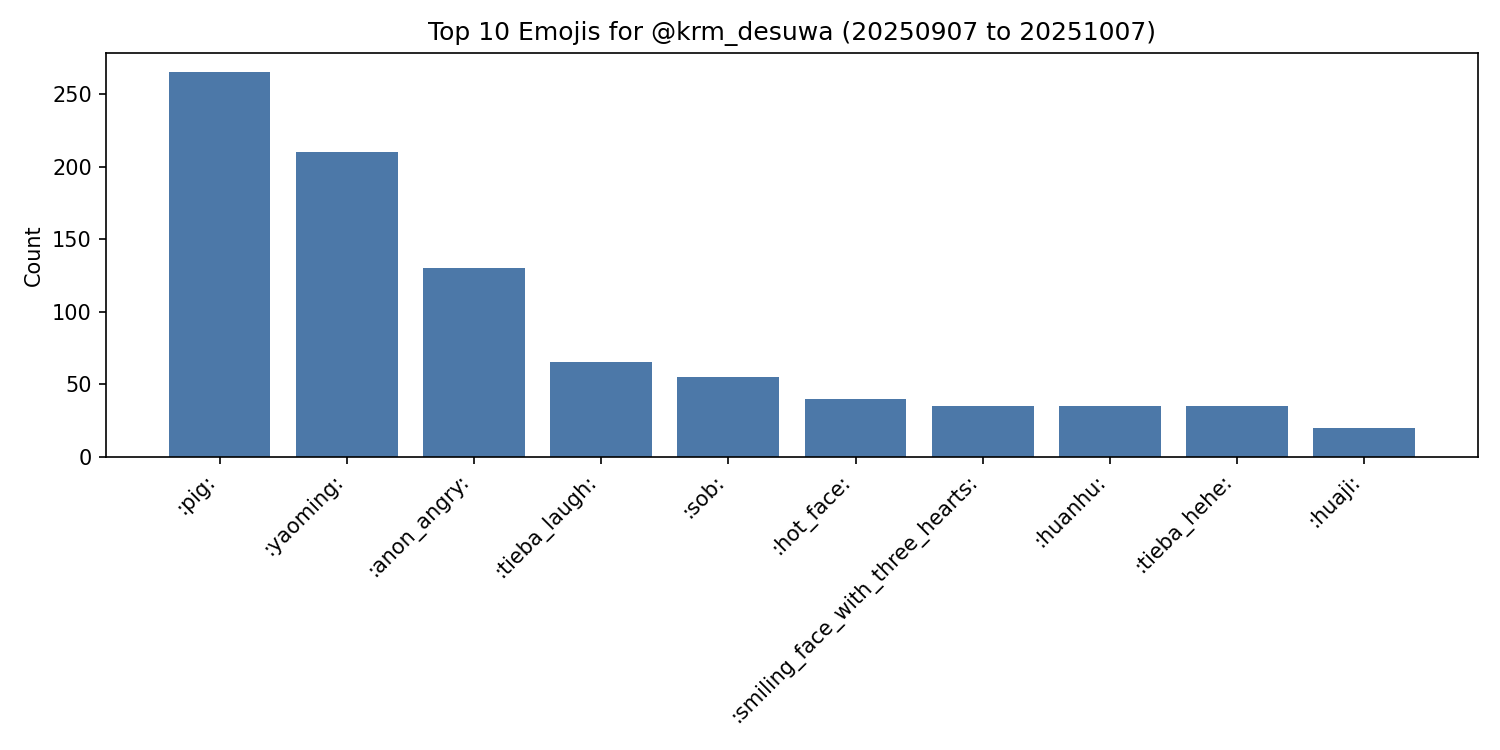
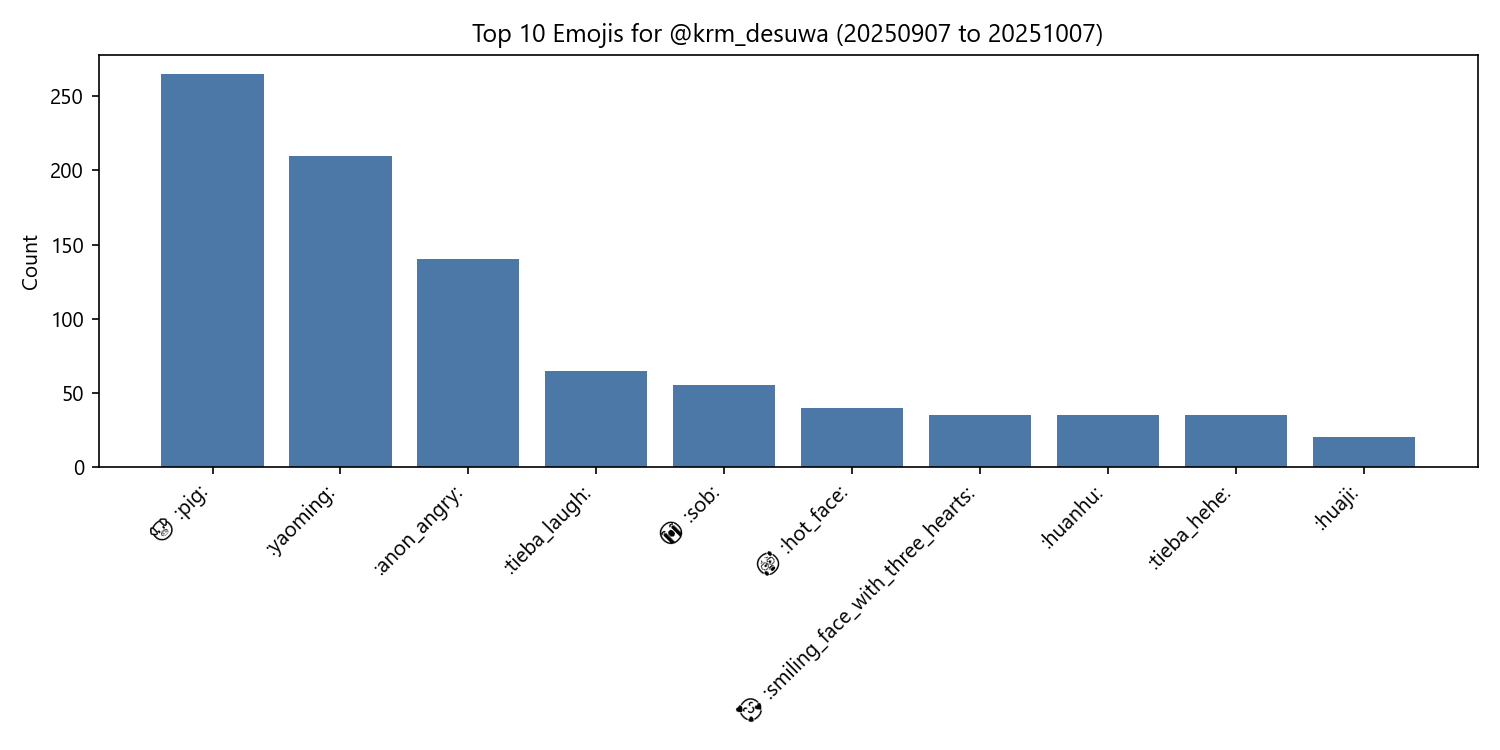
添加更直观的emoji显示

diff --git a/user_emoji_stats.py b/user_emoji_stats.py
@@ -72,7 +72,7 @@ def get_user_replies(username: str, max_pages: int = None,
     while True:
         if max_pages and page > max_pages:
             break
-        
+            
         # filter=5 表示 replies (回复)
         url = f"{USER_ACTIONS_API}?username={username}&filter=5&offset={offset}"
         
@@ -82,14 +82,14 @@ def get_user_replies(username: str, max_pages: int = None,
             if not response or response.status_code != 200:
                 print(f"请求失败: {response.status_code if response else 'Network Error'}")
                 break
-            
+                
             data = json.loads(response.text)
             user_actions = data.get('user_actions', [])
             
             if not user_actions:
                 print(f"已获取所有回复，共 {len(all_replies)} 条")
                 break
-            
+                
             # 过滤时间窗口（within-page）
             filtered_actions: List[Dict] = []
             page_times: List[datetime] = []
@@ -180,7 +180,7 @@ def extract_emoji_from_html(html_content: str) -> List[str]:
     return [e for e in emojis if final_filter.match(e)]
 
 
-def analyze_user_emojis(username: str, max_pages: int = None,
+def analyze_user_emojis(username: str, max_pages: int = None, 
                         since: Optional[str] = None, until: Optional[str] = None) -> Dict:
     """
     分析指定用户的 emoji 使用情况
@@ -299,11 +299,49 @@ def save_results(result: Dict):
     # 生成 Top10 柱状图
     try:
         from matplotlib import pyplot as plt
+        from matplotlib.offsetbox import OffsetImage, AnnotationBbox
+        import platform
+        try:
+            import emoji as _emoji
+        except Exception:
+            _emoji = None
+        try:
+            import requests as _req
+        except Exception:
+            _req = None
         top10 = result['top_10_emojis']
         if top10:
-            labels = [e for e, _ in top10]
+            def shortcode_to_emoji(code: str) -> str:
+                if _emoji is None:
+                    return code
+                try:
+                    # 将 :smiling_face_with_three_hearts: 转为 🥰
+                    converted = _emoji.emojize(code, language='alias')  # 返回原文则代表未识别
+                    return converted if converted != code else code
+                except Exception:
+                    return code
+
+            labels_raw = [e for e, _ in top10]
+            labels_emoji = [shortcode_to_emoji(lbl) for lbl in labels_raw]
+            # 显示“emoji + 短代码”；若转换失败（仍是短代码），仅显示一次短代码，避免重复
+            labels = []
+            for em, sc in zip(labels_emoji, labels_raw):
+                if em == sc:
+                    labels.append(sc)
+                else:
+                    labels.append(f"{em} {sc}")
             values = [c for _, c in top10]
             plt.figure(figsize=(10, 5))
+
+            # 尝试设置支持彩色 Emoji 的字体
+            os_name = platform.system()
+            if os_name == 'Windows':
+                plt.rcParams['font.family'] = ['Segoe UI Emoji', 'Segoe UI Symbol', 'DejaVu Sans']
+            elif os_name == 'Darwin':
+                plt.rcParams['font.family'] = ['Apple Color Emoji', 'Helvetica Neue', 'DejaVu Sans']
+            else:
+                plt.rcParams['font.family'] = ['Noto Color Emoji', 'DejaVu Sans']
+
             plt.bar(range(len(values)), values, color='#4C78A8')
             plt.xticks(range(len(values)), labels, rotation=45, ha='right')
             plt.ylabel('Count')
@@ -315,6 +353,45 @@ def save_results(result: Dict):
             plt.tight_layout()
             fname_user = safe_filename(username)
             chart_path = f"{OUTPUT_DIR}/{fname_user}_top10{window_suffix(result.get('since'), result.get('until'))}.png"
+            
+            # 尝试以 Twemoji 彩色图标增强可视化（在柱子上方叠加小图），失败则忽略
+            def emoji_to_twemoji_url(em: str) -> Optional[str]:
+                if not em:
+                    return None
+                codepoints = []
+                for ch in em:
+                    cp = ord(ch)
+                    # 跳过 VARIATION SELECTOR-16（呈现差异）
+                    if cp == 0xFE0F:
+                        continue
+                    codepoints.append(f"{cp:x}")
+                if not codepoints:
+                    return None
+                return f"https://cdn.jsdelivr.net/gh/twitter/twemoji@14.0.2/assets/72x72/{'-'.join(codepoints)}.png"
+
+            if _req is not None:
+                y_max = max(values) if values else 0
+                for i, em in enumerate(labels_emoji):
+                    try:
+                        # 仅当确实转换为真实 emoji 时才尝试叠加彩色图标
+                        if em == labels_raw[i] or not any(ord(ch) > 255 for ch in em):
+                            continue
+                        url = emoji_to_twemoji_url(em)
+                        if not url:
+                            continue
+                        r = _req.get(url, timeout=5)
+                        if r.status_code == 200:
+                            img = plt.imread(r.raw, format='png') if hasattr(r, 'raw') else None
+                            if img is None:
+                                import io
+                                bio = io.BytesIO(r.content)
+                                img = plt.imread(bio, format='png')
+                            oi = OffsetImage(img, zoom=0.3)
+                            ab = AnnotationBbox(oi, (i, values[i] + y_max * 0.05), frameon=False)
+                            plt.gca().add_artist(ab)
+                    except Exception:
+                        continue
+
             plt.savefig(chart_path, dpi=150)
             plt.close()
         else:
@@ -356,7 +433,7 @@ def save_results(result: Dict):
         f.write("\n## 完整 Emoji 使用频率\n\n")
         f.write("| Emoji | 使用次数 | 占比 |\n")
         f.write("|-------|----------|------|\n")
-        for emoji, count in sorted(result['emoji_frequency'].items(),
+        for emoji, count in sorted(result['emoji_frequency'].items(), 
                                    key=lambda x: x[1], reverse=True):
             percentage = count / result['total_emojis'] * 100 if result['total_emojis'] > 0 else 0
             f.write(f"| {emoji} | {count} | {percentage:.2f}% |\n")
@@ -444,8 +521,8 @@ if __name__ == "__main__":
         description="统计水源社区用户的 Emoji 使用情况"
     )
     parser.add_argument(
-        'username',
-        type=str,
+        'username', 
+        type=str, 
         nargs='?',
         help='要分析的用户名（例如: krm_desuwa）'
     )
